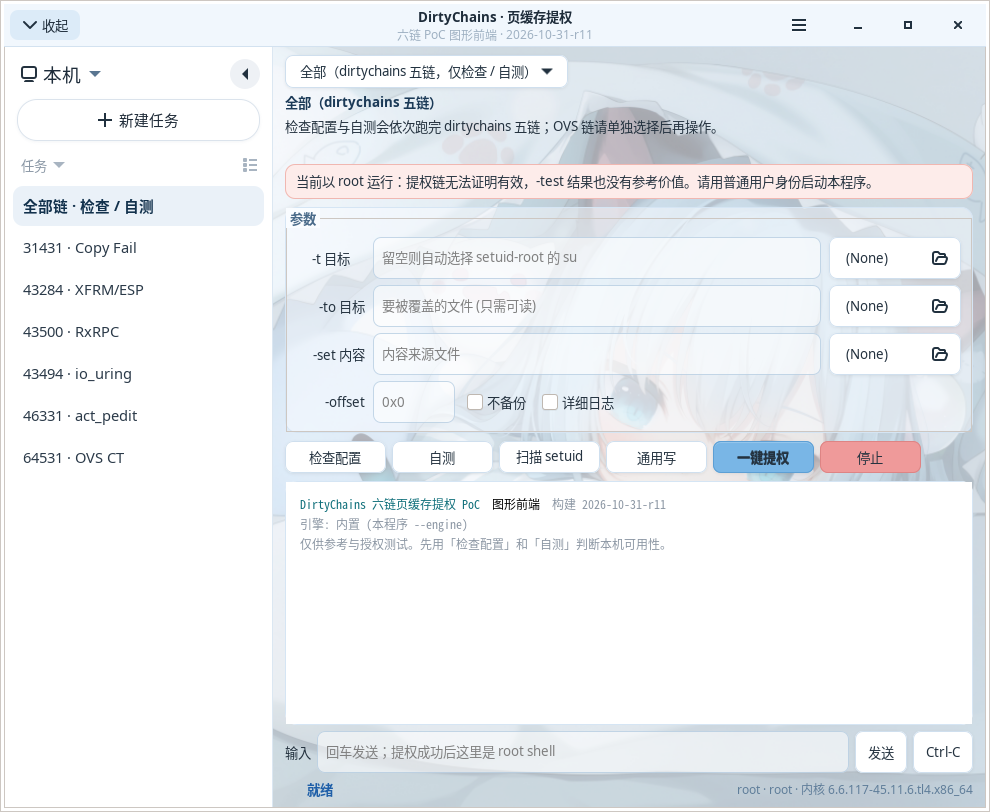
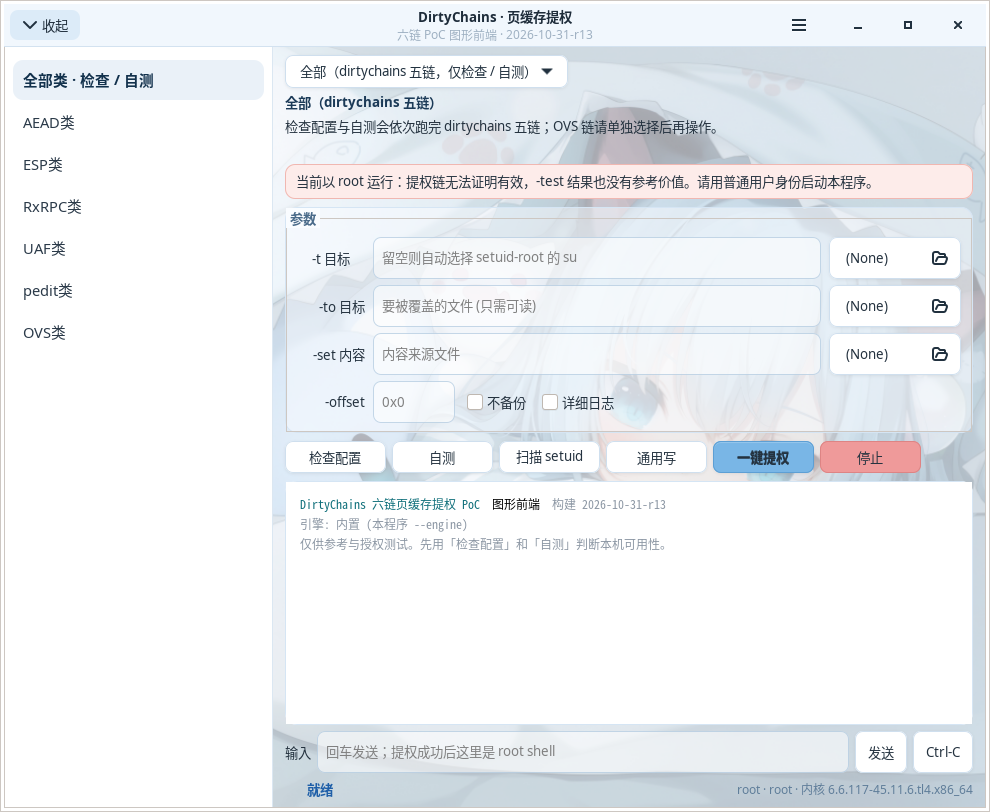
任务抽屉精简为纯类别列表：去掉本机/新建任务/分组标题，条目按漏洞类别命名(UAF类等)

diff --git a/dirtyfrag-gui.c b/dirtyfrag-gui.c
@@ -3693,7 +3693,7 @@ int ovswrap_main(int argc, char **argv)
 
 #define APP_TITLE       "DirtyChains · 页缓存提权"
 /* 构建标识: 标题栏副标题上直接显示, 用来确认跑的是不是最新这份 */
-#define DF_BUILD        "2026-10-31-r12"
+#define DF_BUILD        "2026-10-31-r13"
 #define APP_SUBTITLE    "六链 PoC 图形前端 · " DF_BUILD
 #define LOG_MAX_LINES   20000
 #define PTY_COLS        110
@@ -3710,38 +3710,45 @@ typedef struct {
     const char *desc;    /* 说明 */
     const char *need;    /* 前提 */
     int         engine;  /* 0 = 内置 dirtychains 引擎, 1 = ovswrap 引擎 */
+    const char *cls;     /* 侧栏里显示的类别名 */
 } Chain;
 
 static const Chain chains[] = {
     { "-2026-31431", "31431 · Copy Fail",
       "CVE-2026-31431  AF_ALG / AEAD",
       "splice 文件页进 AEAD, 原地解密写 4 字节",
-      "需 authencesn(hmac(sha256),cbc(aes)) + algif_aead", 0 },
+      "需 authencesn(hmac(sha256),cbc(aes)) + algif_aead", 0,
+      "AEAD类" },
 
     { "-2026-43284", "43284 · XFRM/ESP",
       "CVE-2026-43284  XFRM / ESP",
       "splice + esp_input 原地解密, 写 ESN 高 32 位",
-      "需非特权 userns + XFRM + ESP", 0 },
+      "需非特权 userns + XFRM + ESP", 0,
+      "ESP类" },
 
     { "-2026-43500", "43500 · RxRPC",
       "CVE-2026-43500  RxRPC / RXKAD",
       "8 字节 pcbc(fcrypt) 原地解密, 改 /etc/passwd 首行",
-      "需 AF_RXRPC + RXKAD, 写位置固定", 0 },
+      "需 AF_RXRPC + RXKAD, 写位置固定", 0,
+      "RxRPC类" },
 
     { "-2026-43494", "43494 · io_uring",
       "CVE-2026-43494  io_uring + RDS",
       "页引用计数劫持, 整页替换 setuid 文件",
-      "需 IORING_REGISTER_CLONE_BUFFERS (6.12+)", 0 },
+      "需 IORING_REGISTER_CLONE_BUFFERS (6.12+)", 0,
+      "UAF类" },
 
     { "-2026-46331", "46331 · act_pedit",
       "CVE-2026-46331  net/sched act_pedit",
       "sendfile 进 loopback, pedit 改 TCP 头, 写穿页缓存",
-      "需 act_pedit + clsact + userns", 0 },
+      "需 act_pedit + clsact + userns", 0,
+      "pedit类" },
 
     { "-2026-64531", "64531 · OVS CT",
       "CVE-2026-64531  net/openvswitch CT action",
       "伪造 SET action 越界读内核内存, dst_release 递减改 cred",
-      "需 openvswitch + userns，偏移读 offset/ 配置表", 1 },
+      "需 openvswitch + userns，偏移读 offset/ 配置表", 1,
+      "OVS类" },
 };
 #define N_CHAINS ((int)(sizeof(chains) / sizeof(chains[0])))
 
@@ -4816,16 +4823,6 @@ static void act_write(GtkWidget *w, gpointer data)
     app_spawn(a, args, "通用写");
 }
 
-
-static void on_collapse_clicked(GtkWidget *w, gpointer data)
-{
-    App *a = data;
-
-    (void)w;
-    if (a->btn_expand)
-        gtk_toggle_button_set_active(GTK_TOGGLE_BUTTON(a->btn_expand), FALSE);
-}
-
 static void on_toggle_expand(GtkWidget *w, gpointer data)
 {
     App *a = data;
@@ -5034,32 +5031,6 @@ static void install_css(void)
         "  background-color: #ffffff;\n"
         "  border-right: 1px solid #dbe7f2;\n"
         "}\n"
-        "#mainwin #sidehead { color: #1e2c3a; font-size: 14pt; }\n"
-        "#mainwin #sidehead-arrow { color: #5a7691; }\n"
-        "#mainwin #sideicon {\n"
-        "  background-image: none;\n"
-        "  background-color: #eef1f5;\n"
-        "  border: none;\n"
-        "  box-shadow: none;\n"
-        "  border-radius: 100px;\n"
-        "  padding: 0;\n"
-        "  min-width: 30px;\n"
-        "  min-height: 30px;\n"
-        "}\n"
-        "#mainwin #sideicon:hover { background-color: #e2e8ef; }\n"
-        "#mainwin #newtask {\n"
-        "  background-image: none;\n"
-        "  background-color: #ffffff;\n"
-        "  border: 1px solid #dbe3ec;\n"
-        "  border-radius: 20px;\n"
-        "  box-shadow: 0 1px 2px rgba(35,70,110,0.06);\n"
-        "  padding: 8px 14px;\n"
-        "}\n"
-        "#mainwin #newtask:hover { background-color: #f7fbff; border-color: #b9d4ec; }\n"
-        "#mainwin #newtask:active { background-color: #eaf4fd; }\n"
-        "#mainwin #newtask-label { color: #1f2b38; font-size: 11pt; }\n"
-        "#mainwin #sidegroup { color: #8a97a5; font-size: 10pt; }\n"
-        "#mainwin #sidegroup-arrow { color: #a8b4c1; }\n"
         "#mainwin #sidescroll, #mainwin #sidescroll viewport { background-color: transparent; }\n"
         "#mainwin #tasklist { background-color: transparent; }\n"
         "#mainwin #tasklist row {\n"
@@ -5251,8 +5222,8 @@ static GtkWidget *build_actions(App *a)
 /*
  * 左上角「展开」拉开的任务抽屉。
  *
- * 版式走手机端会话列表那一套: 页头 → 新建任务 → 分组标题 → 条目列表。
- * 列表与顶部下拉框双向联动: 点条目等于选链, 选链也会反选条目。
+ * 纯列表版式: 每个条目是一类漏洞 (UAF类 / ESP类 / ...), 点条目等于选链,
+ * 与顶部下拉框双向联动。对应链的全名放在条目 tooltip 里。
  */
 #define SIDEBAR_W 268
 
@@ -5285,105 +5256,14 @@ static void on_task_row_selected(GtkListBox *lb, GtkListBoxRow *row, gpointer da
         gtk_combo_box_set_active(GTK_COMBO_BOX(a->combo), idx);
 }
 
-/* 「新建任务」: 清日志 + 回到全部链, 相当于开一轮新会话 */
-static void on_new_task(GtkWidget *w, gpointer data)
-{
-    App *a = data;
-
-    (void)w;
-    gtk_combo_box_set_active(GTK_COMBO_BOX(a->combo), 0);
-    gtk_text_buffer_set_text(a->logbuf, "", -1);
-    gtk_label_set_text(GTK_LABEL(a->status_lbl), "已新建任务：全部链");
-    gtk_widget_set_name(a->status_lbl, "status-run");
-    if (a->entry_input)
-        gtk_widget_grab_focus(a->entry_input);
-}
-
-/* 圆形图标按钮 (页头右边那种) */
-static GtkWidget *side_icon_button(const char *icon, const char *tip)
-{
-    GtkWidget *btn = gtk_button_new();
-    GtkWidget *img = gtk_image_new_from_icon_name(icon, GTK_ICON_SIZE_MENU);
-
-    gtk_widget_set_name(btn, "sideicon");
-    gtk_button_set_relief(GTK_BUTTON(btn), GTK_RELIEF_NONE);
-    gtk_widget_set_valign(btn, GTK_ALIGN_CENTER);
-    gtk_widget_set_tooltip_text(btn, tip);
-    gtk_container_add(GTK_CONTAINER(btn), img);
-    return btn;
-}
-
 static GtkWidget *build_task_sidebar(App *a)
 {
-    GtkWidget *box = gtk_box_new(GTK_ORIENTATION_VERTICAL, 10);
-    GtkWidget *head = gtk_box_new(GTK_ORIENTATION_HORIZONTAL, 6);
-    GtkWidget *group = gtk_box_new(GTK_ORIENTATION_HORIZONTAL, 4);
-    GtkWidget *btn, *lbl, *img, *scroller, *list;
+    GtkWidget *box = gtk_box_new(GTK_ORIENTATION_VERTICAL, 6);
+    GtkWidget *scroller, *list;
     int i;
 
     gtk_widget_set_name(box, "sidebar");
     gtk_widget_set_size_request(box, SIDEBAR_W, -1);
-
-    /* ── 页头: 云图标 + 本机 ▾ + 收起 ── */
-    img = gtk_image_new_from_icon_name("computer-symbolic", GTK_ICON_SIZE_MENU);
-    gtk_box_pack_start(GTK_BOX(head), img, FALSE, FALSE, 0);
-
-    lbl = gtk_label_new("本机");
-    gtk_widget_set_name(lbl, "sidehead");
-    gtk_box_pack_start(GTK_BOX(head), lbl, FALSE, FALSE, 0);
-
-    img = gtk_image_new_from_icon_name("pan-down-symbolic", GTK_ICON_SIZE_MENU);
-    gtk_widget_set_name(img, "sidehead-arrow");
-    gtk_box_pack_start(GTK_BOX(head), img, FALSE, FALSE, 0);
-
-    btn = side_icon_button("pan-start-symbolic", "收起任务面板");
-    g_signal_connect(btn, "clicked", G_CALLBACK(on_collapse_clicked), a);
-    gtk_box_pack_end(GTK_BOX(head), btn, FALSE, FALSE, 0);
-
-    gtk_widget_set_margin_start(head, 16);
-    gtk_widget_set_margin_end(head, 12);
-    gtk_widget_set_margin_top(head, 12);
-    gtk_box_pack_start(GTK_BOX(box), head, FALSE, FALSE, 0);
-
-    /* ── 新建任务 ── */
-    btn = gtk_button_new();
-    {
-        GtkWidget *h = gtk_box_new(GTK_ORIENTATION_HORIZONTAL, 6);
-        GtkWidget *ic = gtk_image_new_from_icon_name("list-add-symbolic",
-                                                     GTK_ICON_SIZE_MENU);
-
-        gtk_widget_set_halign(h, GTK_ALIGN_CENTER);
-        gtk_box_pack_start(GTK_BOX(h), ic, FALSE, FALSE, 0);
-        lbl = gtk_label_new("新建任务");
-        gtk_widget_set_name(lbl, "newtask-label");
-        gtk_box_pack_start(GTK_BOX(h), lbl, FALSE, FALSE, 0);
-        gtk_container_add(GTK_CONTAINER(btn), h);
-    }
-    gtk_widget_set_name(btn, "newtask");
-    gtk_button_set_relief(GTK_BUTTON(btn), GTK_RELIEF_NONE);
-    gtk_widget_set_tooltip_text(btn, "清空日志并回到「全部链」");
-    g_signal_connect(btn, "clicked", G_CALLBACK(on_new_task), a);
-    gtk_widget_set_margin_start(btn, 12);
-    gtk_widget_set_margin_end(btn, 12);
-    gtk_box_pack_start(GTK_BOX(box), btn, FALSE, FALSE, 0);
-
-    /* ── 分组标题: 任务 ▾ ... 列表图标 ── */
-    lbl = gtk_label_new("任务");
-    gtk_widget_set_name(lbl, "sidegroup");
-    gtk_box_pack_start(GTK_BOX(group), lbl, FALSE, FALSE, 0);
-
-    img = gtk_image_new_from_icon_name("pan-down-symbolic", GTK_ICON_SIZE_MENU);
-    gtk_widget_set_name(img, "sidegroup-arrow");
-    gtk_box_pack_start(GTK_BOX(group), img, FALSE, FALSE, 0);
-
-    img = gtk_image_new_from_icon_name("view-list-symbolic", GTK_ICON_SIZE_MENU);
-    gtk_widget_set_name(img, "sidegroup-arrow");
-    gtk_box_pack_end(GTK_BOX(group), img, FALSE, FALSE, 0);
-
-    gtk_widget_set_margin_start(group, 16);
-    gtk_widget_set_margin_end(group, 14);
-    gtk_widget_set_margin_top(group, 4);
-    gtk_box_pack_start(GTK_BOX(box), group, FALSE, FALSE, 0);
 
     /* ── 条目列表 ── */
     scroller = gtk_scrolled_window_new(NULL, NULL);
@@ -5399,12 +5279,14 @@ static GtkWidget *build_task_sidebar(App *a)
 
     for (i = 0; i <= N_CHAINS; i++) {
         GtkWidget *row = gtk_list_box_row_new();
-        GtkWidget *l = gtk_label_new(i == 0 ? "全部链 · 检查 / 自测"
-                                            : chains[i - 1].tag);
+        GtkWidget *l = gtk_label_new(i == 0 ? "全部类 · 检查 / 自测"
+                                            : chains[i - 1].cls);
 
         gtk_label_set_xalign(GTK_LABEL(l), 0.0f);
         gtk_widget_set_halign(l, GTK_ALIGN_START);
         gtk_widget_set_valign(l, GTK_ALIGN_CENTER);
+        if (i > 0)
+            gtk_widget_set_tooltip_text(row, chains[i - 1].name);
         gtk_container_add(GTK_CONTAINER(row), l);
         gtk_container_add(GTK_CONTAINER(list), row);
     }
@@ -5412,6 +5294,7 @@ static GtkWidget *build_task_sidebar(App *a)
     g_signal_connect(list, "row-selected", G_CALLBACK(on_task_row_selected), a);
 
     gtk_container_add(GTK_CONTAINER(scroller), list);
+    gtk_widget_set_margin_top(scroller, 12);
     gtk_widget_set_margin_start(scroller, 8);
     gtk_widget_set_margin_end(scroller, 8);
     gtk_widget_set_margin_bottom(scroller, 10);
